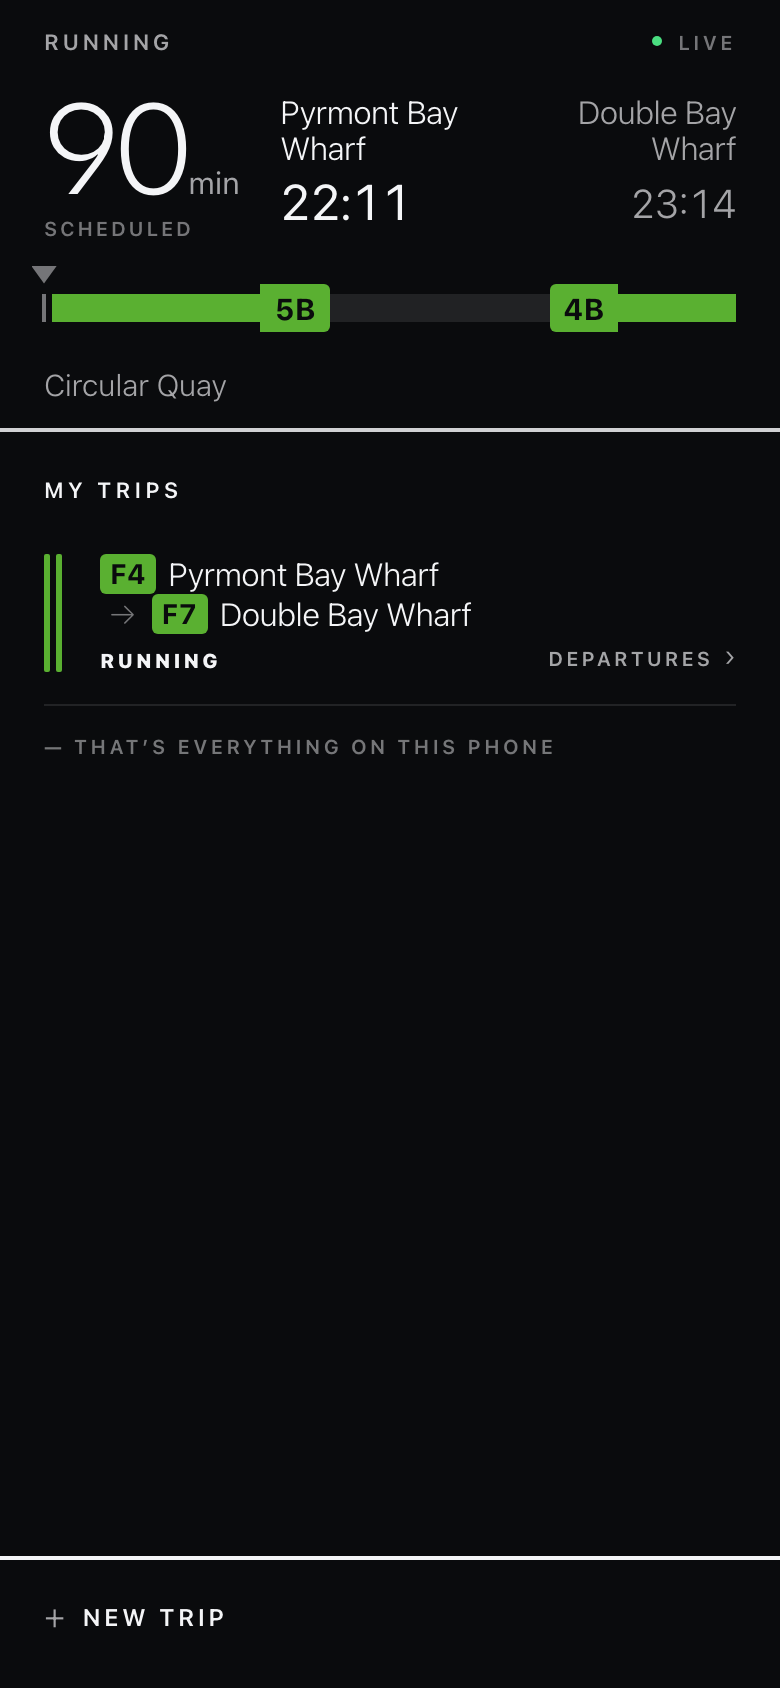
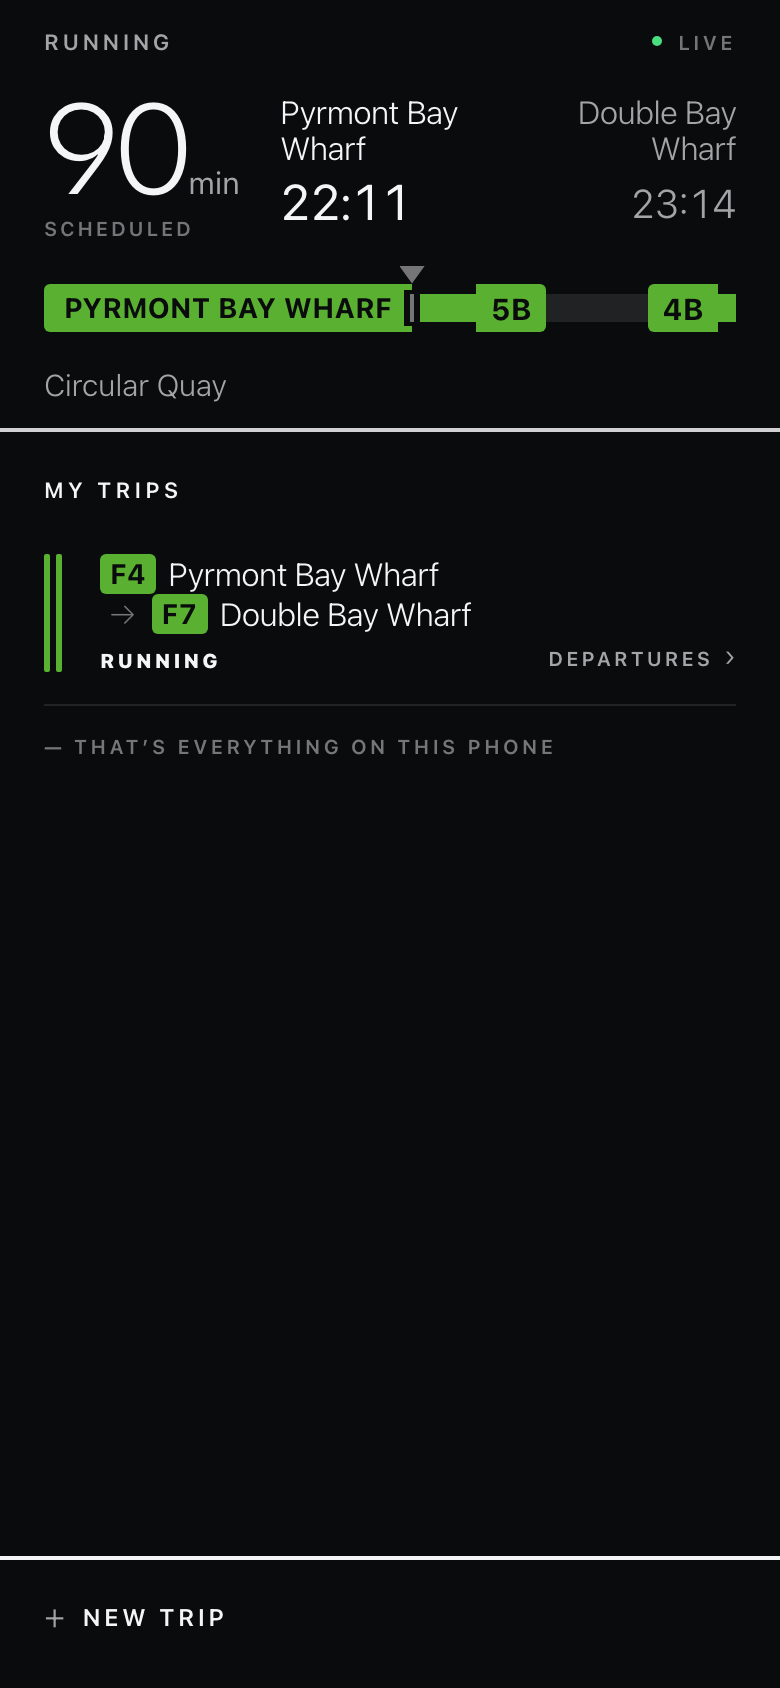
Calibrate named ferry origin labels

Changed region(s): [[0.0308, 0.154, 0.9231, 0.2156]]

diff --git a/tools/shoot-states.js b/tools/shoot-states.js
@@ -1064,8 +1064,10 @@ async function states() {
       expect: {
         boardHeader: ['Pyrmont Bay Wharf', 'Double Bay Wharf'],
         equalHeaderLines: true,
-        caps: [],
-        ferryLocations: pyrmontRows.flat(),
+        caps: Array(4).fill('Pyrmont Bay Wharf'),
+        ferryLocations: pyrmontRows.flatMap((row) => [
+          loc('origin', 'Pyrmont Bay Wharf', 'Pyrmont Bay Wharf'), ...row
+        ]),
         copy: ['Circular Quay'],
         accessibleCopy: ['Pyrmont Bay Wharf'],
         ferryCodes: ['F4', 'F7']
@@ -1077,8 +1079,10 @@ async function states() {
       expect: {
         boardHeader: ['Double Bay Wharf', 'Pyrmont Bay Wharf'],
         equalHeaderLines: true,
-        caps: [],
-        ferryLocations: doubleBayRows.flat(),
+        caps: Array(4).fill('Double Bay Wharf'),
+        ferryLocations: doubleBayRows.flatMap((row) => [
+          loc('origin', 'Double Bay Wharf', 'Double Bay Wharf'), ...row
+        ]),
         copy: ['Circular Quay'],
         accessibleCopy: ['Double Bay Wharf'],
         ferryCodes: ['F7', 'F4']
@@ -1100,8 +1104,10 @@ async function states() {
       now: Date.parse(pyrmontDoubleBayBody.generatedAt),
       expect: {
         status: 'Next ferry',
-        caps: [],
-        ferryLocations: pyrmontRows[0],
+        caps: ['Pyrmont Bay Wharf'],
+        ferryLocations: [
+          loc('origin', 'Pyrmont Bay Wharf', 'Pyrmont Bay Wharf'), ...pyrmontRows[0]
+        ],
         ferryCodes: ['F4', 'F7']
       }
     }),
@@ -1112,8 +1118,10 @@ async function states() {
       focus: pyrmontDoubleBayBody.journeys[1],
       expect: {
         status: 'Running',
-        caps: [],
-        ferryLocations: pyrmontRows[1],
+        caps: ['Pyrmont Bay Wharf'],
+        ferryLocations: [
+          loc('origin', 'Pyrmont Bay Wharf', 'Pyrmont Bay Wharf'), ...pyrmontRows[1]
+        ],
         ferryCodes: ['F4', 'F7']
       }
     }),
@@ -1146,8 +1154,10 @@ async function states() {
       now: Date.parse(doubleBayPyrmontBody.generatedAt),
       expect: {
         status: 'Next ferry',
-        caps: [],
-        ferryLocations: doubleBayRows[0],
+        caps: ['Double Bay Wharf'],
+        ferryLocations: [
+          loc('origin', 'Double Bay Wharf', 'Double Bay Wharf'), ...doubleBayRows[0]
+        ],
         ferryCodes: ['F7', 'F4']
       }
     }),
@@ -1158,8 +1168,10 @@ async function states() {
       focus: doubleBayPyrmontBody.journeys[0],
       expect: {
         status: 'Running',
-        caps: [],
-        ferryLocations: doubleBayRows[0],
+        caps: ['Double Bay Wharf'],
+        ferryLocations: [
+          loc('origin', 'Double Bay Wharf', 'Double Bay Wharf'), ...doubleBayRows[0]
+        ],
         ferryCodes: ['F7', 'F4']
       }
     }),
@@ -1170,8 +1182,9 @@ async function states() {
       expect: {
         rail: true,
         compactPromoted: true,
-        caps: [],
+        caps: ['Pyrmont Bay Wharf'],
         ferryLocations: [
+          loc('origin', 'Pyrmont Bay Wharf', 'Pyrmont Bay Wharf'),
           ...pyrmontRows[1],
           loc('origin', 'Pyrmont Bay Wharf', 'Pyrmont Bay Wharf'),
           ...pyrmontRows[1],
@@ -1190,8 +1203,9 @@ async function states() {
       expect: {
         rail: true,
         compactPromoted: true,
-        caps: [],
+        caps: ['Double Bay Wharf'],
         ferryLocations: [
+          loc('origin', 'Double Bay Wharf', 'Double Bay Wharf'),
           ...doubleBayRows[0],
           loc('origin', 'Double Bay Wharf', 'Double Bay Wharf'),
           ...doubleBayRows[0],

diff --git a/docs/contracts/ui.md b/docs/contracts/ui.md
@@ -507,23 +507,23 @@ the same change as this contract, and git keeps the history. Every frame in it
 is a `tools/shoot-states.js` shot of the built client, so a frame no state can
 produce is removed rather than left to rot.
 
-The set is forty-three frames:
+The set is forty-four frames:
 
 - Board: `board-390x844-hero.png` plus its `past`, `delayed`, `cancelled`,
   `long`, `two-change` and `hero-light` variants, and `board-412x732-hero.png`.
   `two-change` is the two-transfer row grammar.
 - Ferry board: `board-390x844-ferry-pyrmont.png`,
   `board-390x844-ferry-doublebay.png` and `board-390x844-ferry-numeric.png`
-  preserve the equal-column header, exact repeated-origin cap omission in
-  both directions, compact transfer number/side markers with their true
+  preserve the equal-column header, full named origin caps in both
+  directions, compact transfer number/side markers with their true
   alight/board associations, and full initial numeric/side caps respectively.
 - Journey detail: `detail-390x844-hero.png` plus its `tight`, `cancelled`,
   `direct`, `long`, `departed`, `focused` and `hero-light` variants, and
   `detail-412x732-hero.png` with its `tight`, `cancelled` and `long` variants.
   `departed` is the post-departure promoted row under `TO CHANGE`; `focused` is
   the already-focused journey, which carries no action rail.
-- Ferry detail: `detail-390x844-ferry-pyrmont.png` carries the same omitted
-  redundant cap, the compact `5B` to `4B` transfer and its full secondary
+- Ferry detail: `detail-390x844-ferry-pyrmont.png` carries the full named
+  origin cap, the compact `5B` to `4B` transfer and its full secondary
   boarding instruction. `detail-390x844-ferry-numeric.png` preserves the full
   initial `Wharf 4, Side B` cap.
 - Smart home and directions: `home-390x844-before.png` plus `change`, `final`,
@@ -533,9 +533,10 @@ The set is forty-three frames:
   departs, `late` the `RUNNING LATE` treatment, and `back` the return direction
   with its real transfer platforms after the offer is accepted.
 - Ferry smart home: `home-390x844-ferry-pyrmont-focused.png` calibrates the
-  compact `5B` to `4B` transfer with its redundant named origin omitted;
+  full named origin with the compact `5B` to `4B` transfer;
   `home-390x844-ferry-numeric-focused.png` calibrates the full initial
-  `Wharf 4, Side B` cap.
+  `Wharf 4, Side B` cap. `home-925x844-ferry-pyrmont-focused.png` carries the
+  same full named origin at desktop width.
 - Location-first home: `home-390x844-inferred.png` and its `inferred-light`
   variant are inferred travel mode carrying the `Going somewhere else?` line;
   `home-390x844-just-added.png` is the open on which the app saved the pair it

diff --git a/tools/README.md b/tools/README.md
@@ -287,7 +287,7 @@ change the produced filename, not the state, so rename by an explicit table and
 then **read every frame**: a stale `OFFLINE` board or a withheld figure is a
 convincing shot of the wrong screen, and so is the wrong route.
 
-The table, all forty-three frames. `default` means no flags: the state carries its
+The table, all forty-four frames. `default` means no flags: the state carries its
 own size and the dark scheme is unsuffixed.
 
 | Exemplar | State | Invocation |
@@ -327,6 +327,7 @@ own size and the dark scheme is unsuffixed.
 | `home-390x844-back.png` | `reverse-real-platforms` | default |
 | `home-390x844-ferry-pyrmont-focused.png` | `ferry-pyrmont-home-focused` | default |
 | `home-390x844-ferry-numeric-focused.png` | `ferry-numeric-home-focused` | default |
+| `home-925x844-ferry-pyrmont-focused.png` | `ferry-pyrmont-home-focused` | `--size 925x844` |
 | `home-390x844-before-light.png` | `home-before` | `--media prefers-color-scheme:light` |
 | `home-412x732-change.png` | `home-change` | `--size 412x732` |
 | `home-390x844-inferred.png` | `home-inferred` | default |
@@ -337,7 +338,8 @@ own size and the dark scheme is unsuffixed.
 | `setup-390x844-origin.png` | `setup-origin` | default |
 
 The focused Pyrmont state selects its captured 22:11 journey, whose Circular
-Quay transfer is `5B` to `4B`; the reverse focused state uses `5B` to `5A`.
+Quay transfer is `5B` to `4B`; it keeps the full `Pyrmont Bay Wharf` origin
+cap. The reverse focused state keeps `Double Bay Wharf` and uses `5B` to `5A`.
 `ferry-numeric-home-focused` and `ferry-numeric-detail` select the captured
 Circular Quay departure from `Wharf 4, Side B` so the full initial label is
 calibrated separately from compact transfer markers.
